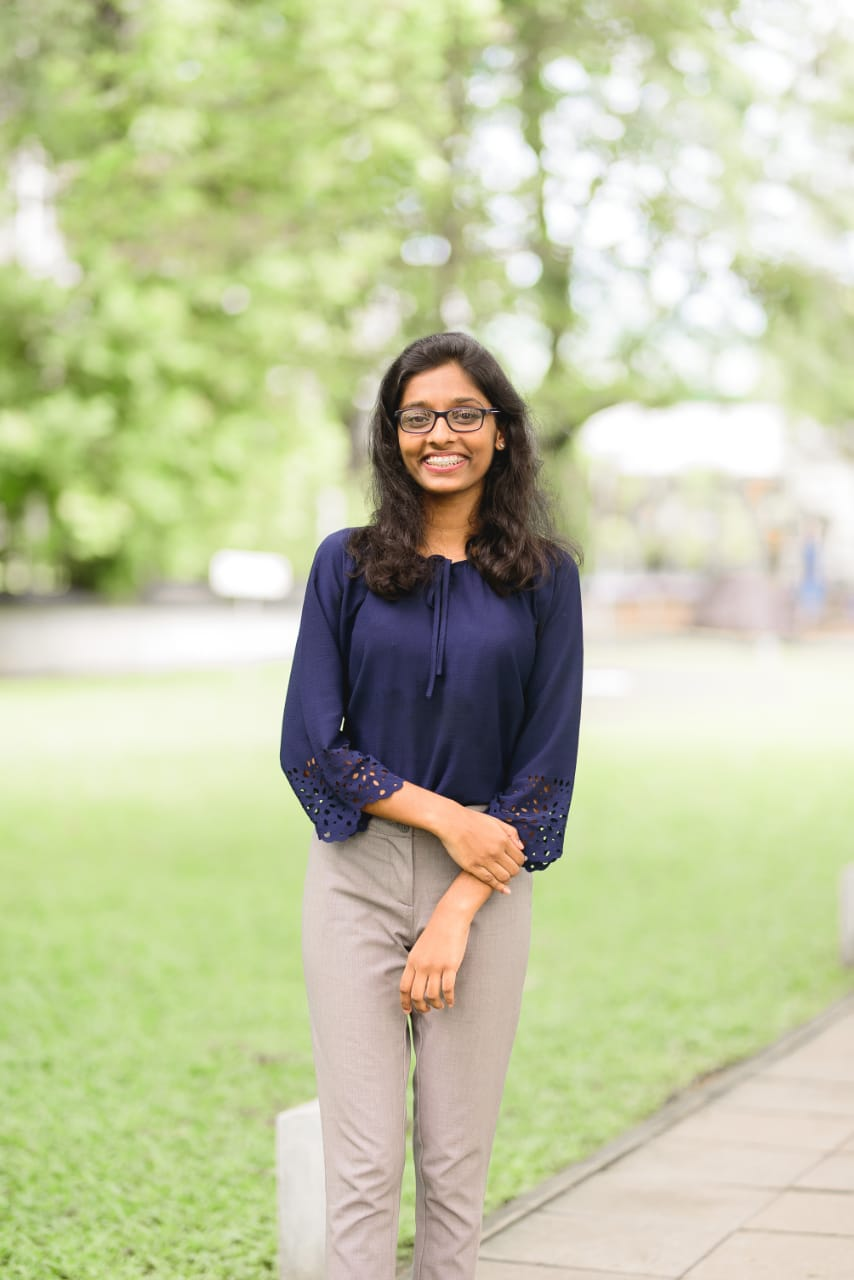
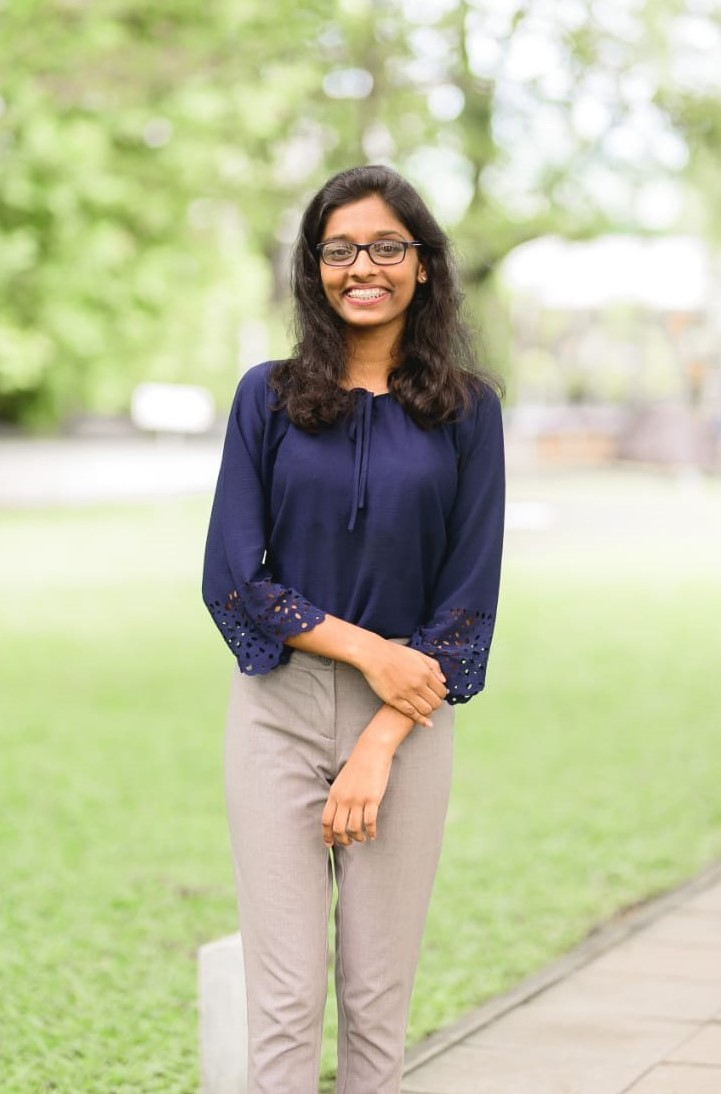
Fixed issue in board member image proportions (#94)
* Implemented Upcoming Event card design

* Added carousel to upcoming events section

* Updated Events file with sample upcoming events

* Implemented component to fetch data for upcoming events

* Updated Events file with sample upcoming events

* Fixed responsiveness issue

* Added validation to display upcoming event only if details are added

* Added validation to hide upcoming events section if no events are added

* Removed console logs

* Ignore dependency warning

* Updated favicon

* Changed favicon to mascot

* Fixed board member image size issue

diff --git a/src/pages/BoardMembers.jsx b/src/pages/BoardMembers.jsx
@@ -94,7 +94,7 @@ export default function Team() {
                                             .MEMBERSHIP_AND_RECRUITING_LEAD
                                             .IMAGE_SRC
                                     }
-                                    class="img-fluid"
+                                    class="img-fluid team-member-img"
                                     alt=""
                                 />
                                 <div class="member-info">

diff --git a/public/css/style.css b/public/css/style.css
@@ -1603,10 +1603,13 @@ background: radial-gradient(ellipse farthest-corner at bottom left, #9505E3 0%, 
 
 #team .member {
     text-align: center;
-    margin-bottom: 20px;
+    display: block;
+    margin: auto auto 20px auto;
     position: relative;
     border-radius: 50%;
     overflow: hidden;
+    height: 200px;
+    width: 200px;
 }
 
 #team .member .member-info {
